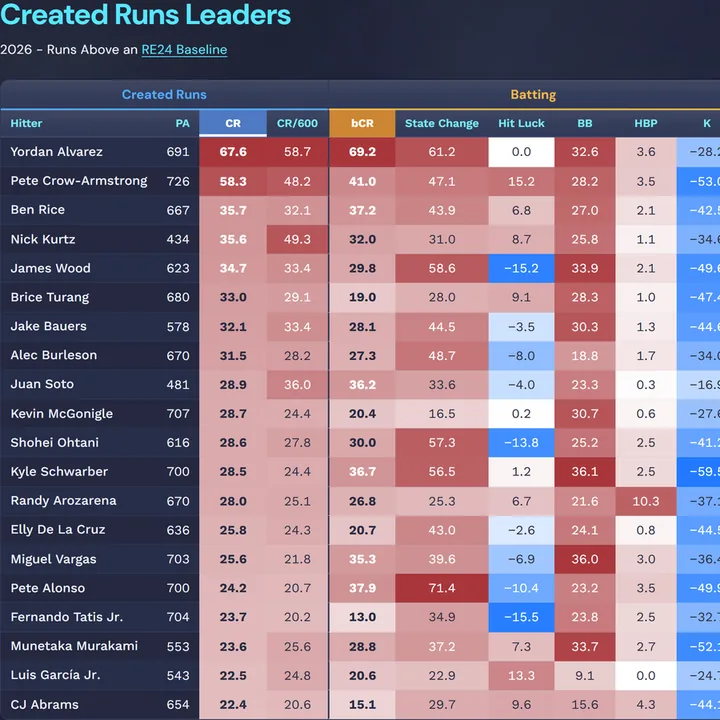
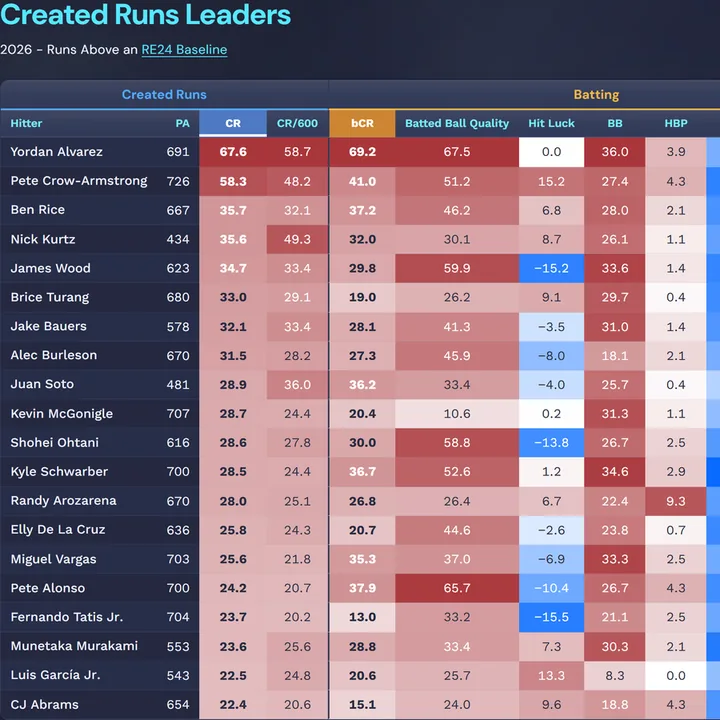
Created Runs: State Context column, Batted Ball Quality label, context-neutral data
Mirrors the Total Offensive Value leaderboard (artifact version 14):
data.json rebuilt from the new CSV, whose plate-appearance columns are now
context-neutral; a State Context column (key ctx, the CSV's state_context)
after K, which brings the Batting group to 7; "State Change" renamed
"Batted Ball Quality"; the glossary updated to match. data.json?v=2,
app.js?v=3, and the homepage tile is refreshed (?v=4).

Changed region(s): [[0.55, 0.1222, 1.0, 1.0], [0.5806, 0.8556, 0.6417, 1.0], [0.5806, 0.7333, 0.6417, 0.825]]

diff --git a/created-runs/index.html b/created-runs/index.html
@@ -121,7 +121,7 @@
       <thead>
         <tr>
           <th class="group g-created" colspan="4" scope="colgroup">Created Runs</th>
-          <th class="group g-batting div" colspan="6" scope="colgroup">Batting</th>
+          <th class="group g-batting div" colspan="7" scope="colgroup">Batting</th>
           <th class="group g-running div" colspan="5" scope="colgroup">Running</th>
         </tr>
         <tr id="col-head"></tr>
@@ -146,9 +146,10 @@
         <h3>Batting</h3>
         <dl>
           <div><dt>bCR</dt><dd>Created runs at the plate: every column in this group added together.</dd></div>
-          <div><dt>State Change</dt><dd>Expected runs from each ball in play, given the base-out state, exit velocity, launch angle and spray angle.</dd></div>
+          <div><dt>Batted Ball Quality</dt><dd>Expected runs from each ball in play, given its exit velocity, launch angle and spray angle, in an average base-out state.</dd></div>
           <div><dt>Hit Luck</dt><dd>How much more or less a line drive, fly ball or popup was worth than its contact deserved: a blooper falling in, or a hard liner caught.</dd></div>
-          <div><dt>BB, HBP, K</dt><dd>Runs from walks (intentional included), hit-by-pitches and strikeouts.</dd></div>
+          <div><dt>BB, HBP, K</dt><dd>Runs from walks (intentional included), hit-by-pitches and strikeouts, each at its league-average value.</dd></div>
+          <div><dt>State Context</dt><dd>What the base-out state added to or took from every plate appearance: a bases-loaded walk is worth about three bases-empty ones. The hitter does not choose the state, and this does not carry over from one season to the next.</dd></div>
         </dl>
       </div>
       <div class="gl-group g-running">
@@ -164,6 +165,6 @@
     </div>
   </section>
 </div>
-<script type="module" src="app.js?v=2"></script>
+<script type="module" src="app.js?v=3"></script>
 </body>
 </html>

diff --git a/created-runs/app.js b/created-runs/app.js
@@ -9,11 +9,12 @@ const COLS = [
   { key: "cr", label: "CR", group: "created", hl: true },
   { key: "cr600", label: "CR/600", group: "created" },
   { key: "bcr", label: "bCR", group: "batting", hl: true, divider: true },
-  { key: "state", label: "State Change", group: "batting" },
+  { key: "state", label: "Batted Ball Quality", group: "batting" },
   { key: "luck", label: "Hit Luck", group: "batting" },
   { key: "bb", label: "BB", group: "batting" },
   { key: "hbp", label: "HBP", group: "batting" },
   { key: "k", label: "K", group: "batting" },
+  { key: "ctx", label: "State Context", group: "batting" },
   { key: "rcr", label: "rCR", group: "running", hl: true, divider: true },
   { key: "h2f", label: "Home-to-First", group: "running" },
   { key: "bsr", label: "BsR", group: "running" },
@@ -126,7 +127,7 @@ $("col-head").addEventListener("click", (e) => {
 
 async function boot() {
   try {
-    const r = await fetch("data.json?v=1");
+    const r = await fetch("data.json?v=2");
     if (!r.ok) throw new Error(`data ${r.status}`);
     DATA = await r.json();
   } catch (e) {

diff --git a/index.html b/index.html
@@ -202,7 +202,7 @@
 								</article>
 									<article class="style3">
 									<span class="image">
-										<img src="images/tile-created-runs.webp?v=3" srcset="images/tile-created-runs-720.webp?v=3 720w, images/tile-created-runs.webp?v=3 900w" sizes="(max-width: 480px) 100vw, (max-width: 980px) 50vw, 380px" width="900" height="900" alt="2026 Created Runs leaders: Yordan Alvarez first at 67.6 runs above an RE24 baseline" />
+										<img src="images/tile-created-runs.webp?v=4" srcset="images/tile-created-runs-720.webp?v=5 720w, images/tile-created-runs.webp?v=4 900w" sizes="(max-width: 480px) 100vw, (max-width: 980px) 50vw, 380px" width="900" height="900" alt="2026 Created Runs leaders: Yordan Alvarez first at 67.6 runs above an RE24 baseline" />
 									</span>
 									<a href="/created-runs/">
 										<h2>Created Runs</h2>

diff --git a/tools/created_runs/build_data.py b/tools/created_runs/build_data.py
@@ -7,8 +7,9 @@ hitter, every column runs above an RE24 baseline. The page shows hitters with MI
 the page's columns:
 
     CR      off_val           CR/600  off_val per 600 PA
-    bCR     batting           State Change  contact      Hit Luck  hit_luck
+    bCR     batting           Batted Ball Quality  contact    Hit Luck  hit_luck
     BB      walk              HBP     hit_by_pitch       K         strikeout
+    State Context  state_context
     rCR     running           Home-to-First  home_to_first          BsR  baserunning
     SB      stolen_base       CS+PO   caught_stealing + pickoff
 
@@ -23,14 +24,15 @@ from pathlib import Path
 MIN_PA = 400
 OUT = Path(__file__).resolve().parents[2] / "created-runs" / "data.json"
 KEYS = ["name", "pa", "cr", "cr600", "bcr", "state", "luck", "bb", "hbp", "k",
-        "rcr", "h2f", "bsr", "sb", "cspo"]
+        "ctx", "rcr", "h2f", "bsr", "sb", "cspo"]
 
 
 def row_of(r):
     pa = int(r["PA"])
     f = lambda k: float(r[k])
     return [r["player_name"], pa, f("off_val"), round(f("off_val") * 600 / pa, 2), f("batting"),
-            f("contact"), f("hit_luck"), f("walk"), f("hit_by_pitch"), f("strikeout"), f("running"),
+            f("contact"), f("hit_luck"), f("walk"), f("hit_by_pitch"), f("strikeout"), f("state_context"),
+            f("running"),
             f("home_to_first"), f("baserunning"), f("stolen_base"),
             round(f("caught_stealing") + f("pickoff"), 2)]
 
